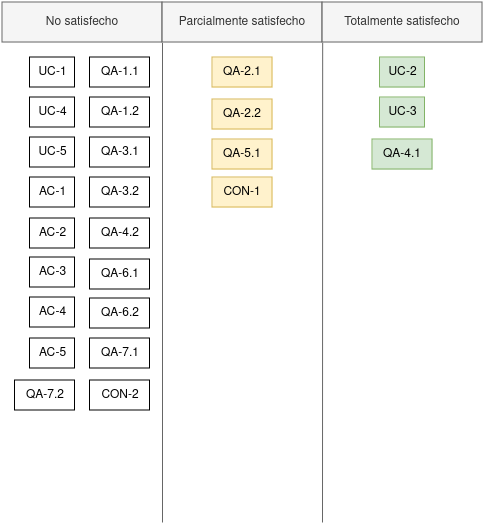
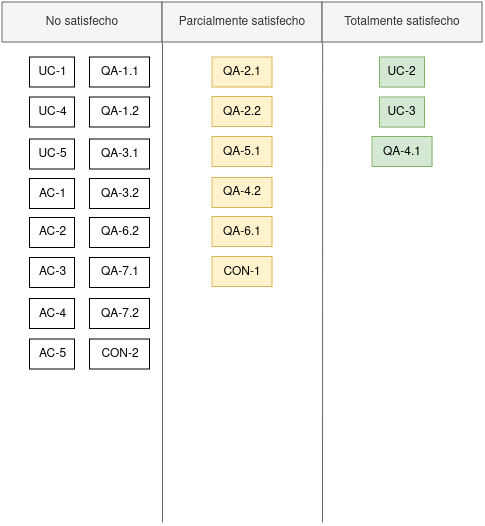
Se agregan otros drivers que la arquitectura actual de esta iteración contribuye a satisfacer

diff --git a/add-process/design-iterations/iteration-1.md b/add-process/design-iterations/iteration-1.md
@@ -186,9 +186,12 @@ En esta primera iteración, se refinarán dos componentes críticos del sistema:
 
 Durante esta iteración, se han tomado una serie de decisiones de diseño que tienen como objetivo abordar los drivers seleccionados para la iteración. A continuación, se detallan estas decisiones y cómo contribuyen a satisfacer dichos drivers, incluyendo aquellos inputs en los que la arquitectura actual puede llegar a contribuir sin ser drivers propios de esta iteración:
 
-- Se satisface de forma parcial la restricción <a href="https://github.com/ramaaorella/final_disenio/blob/main/add-process/design-inputs/1.review-design-inputs.md#constraints">CON-1</a> en esta iteración, dado que se han considerado y respetado las tecnologías Java, MySQL, JHipster para Spring y RabbitMQ en el diseño inicial del sistema. Sin embargo, la evaluación completa de si estas tecnologías satisfacen todas las necesidades y requisitos del proyecto requerirá la finalización del diseño y la implementación completa del sistema. Por ello, no se puede afirmar que esta restricción organizacional pueda satisfacerse en su totalidad.
 - Se satisfacen de forma total los casos de uso <a href="https://github.com/ramaaorella/final_disenio/blob/main/add-process/design-inputs/1.review-design-inputs.md#primary-functional-requirements">UC-2</a> y <a href="https://github.com/ramaaorella/final_disenio/blob/main/add-process/design-inputs/1.review-design-inputs.md#primary-functional-requirements">UC-3</a> en esta iteración, dado que se han instanciado los componentes necesarios y se han distribuido las responsabilidades para dar soporte a ambos flujos. En el caso de UC-2, el ingreso de mensajes de usuarios a través de un canal se gestiona, persiste y muestra al operador según lo requerido. Del mismo modo, en UC-3, el egreso de mensajes de operadores se transmite de manera efectiva al usuario correspondiente, cumpliendo con los objetivos establecidos para ambos casos de uso.
 - Se satisface de forma total el escenario de calidad <a href="https://github.com/ramaaorella/final_disenio/blob/main/add-process/design-inputs/qa-scenarios/qa4.1-scenario.md">QA-4.1</a> en esta iteración. La arquitectura y las decisiones de diseño adoptadas están orientadas a garantizar un procesamiento eficiente y rápido de los mensajes, lo que permite una interacción fluida para los usuarios activos del sistema. Se valoraron y analizaron diversas estrategias asociadas para cumplir en general con este tipo de escenario de calidad, asegurando así que se implementen las soluciones más adecuadas para satisfacer las necesidades del sistema en términos de rendimiento y latencia.
+- Se satisface de forma parcial la restricción <a href="https://github.com/ramaaorella/final_disenio/blob/main/add-process/design-inputs/1.review-design-inputs.md#constraints">CON-1</a> en esta iteración, dado que se han considerado y respetado las tecnologías Java, MySQL, JHipster para Spring y RabbitMQ en el diseño inicial del sistema. Sin embargo, la evaluación completa de si estas tecnologías satisfacen todas las necesidades y requisitos del proyecto requerirá la finalización del diseño y la implementación completa del sistema. Por ello, no se puede afirmar que esta restricción organizacional pueda satisfacerse en su totalidad.
+- Se satisfacen de forma parcial los escenarios de calidad <a href="https://github.com/ramaaorella/final_disenio/blob/main/add-process/design-inputs/qa-scenarios/qa2.1-scenario.md">QA-2.1</a>, <a href="https://github.com/ramaaorella/final_disenio/blob/main/add-process/design-inputs/qa-scenarios/qa2.2-scenario.md">QA-2.2</a> y <a href="https://github.com/ramaaorella/final_disenio/blob/main/add-process/design-inputs/qa-scenarios/qa5.1-scenario.md">QA-5.1</a> en esta iteración. En cuanto a la modularidad, se ha logrado un avance al separar las responsabilidades entre el Gateway de mensajería y el Core, lo que facilita modificaciones independientes. Además, el diseño basado en microservicios, con bajo acoplamiento, comunicación asincrónica y orquestación descentralizada, mejora la capacidad de modificar y escalar los servicios involucrados en los flujos de mensajes entrantes y salientes, contribuyendo a la modularidad y escalabilidad del sistema. En cuanto a la portabilidad, si bien la arquitectura modular facilita este aspecto, aún queda por analizar las estrategias específicas para garantizar una transición eficiente entre entornos y plataformas. Si bien las decisiones actuales contribuyen en parte a cumplir con estos escenarios, será necesario seguir explorando y refinando las estrategias en iteraciones posteriores para satisfacer completamente estos escenarios, tanto en relación con los casos de uso pendientes como en términos de los objetivos de calidad que aún deben ser alcanzados.
+- Se satisface de forma parcial el escenario de calidad <a href="https://github.com/ramaaorella/final_disenio/blob/main/add-process/design-inputs/qa-scenarios/qa4.2-scenario.md">QA-4.2</a>. La arquitectura incluye estrategias para manejar altas cargas, como priorización de mensajes y optimización de latencia. No obstante, será necesario incorporar estrategias adicionales que apunten a aumentar el throughput del sistema para cumplir plenamente con este escenario.
+- Se satisface de forma parcial el escenario de calidad <a href="https://github.com/ramaaorella/final_disenio/blob/main/add-process/design-inputs/qa-scenarios/qa6.1-scenario.md">QA-6.1</a>. La tolerancia a fallos está respaldada por la orquestación descentralizada y la persistencia de mensajes, lo que evita puntos únicos de falla. Sin embargo, la recuperación frente a fallos específicos requiere mayor desarrollo en iteraciones posteriores.
 
 <p align="center">
   <img src="../../images/design-kanban-board/iteration-1.png" alt="Design kanban board - Iteración 1"/>
